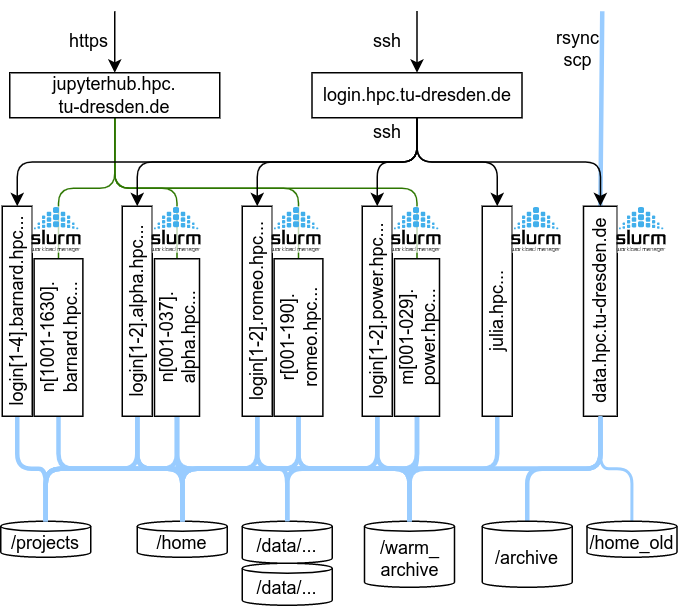
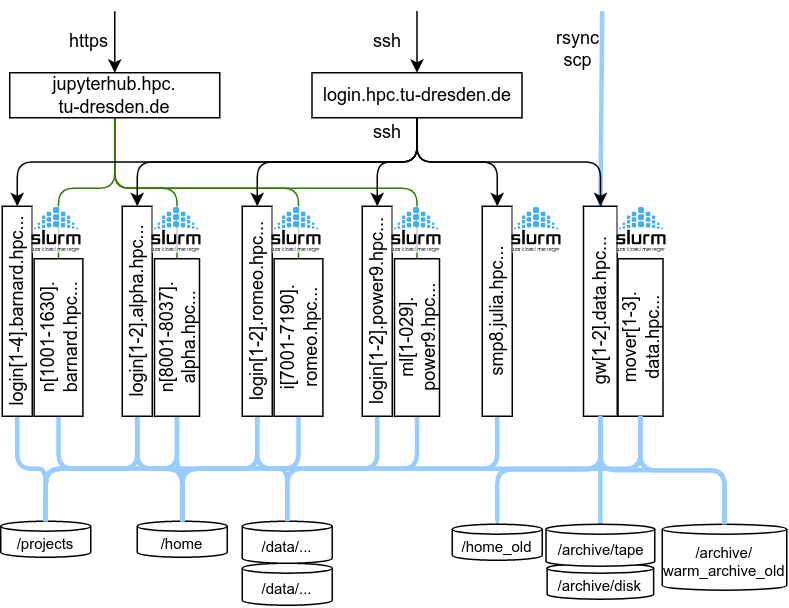
namen

Changed region(s): [[0.0, 0.0297, 1.0, 1.0], [0.0, 0.0297, 0.3407, 0.2079]]

diff --git a/doc.zih.tu-dresden.de/docs/jobs_and_resources/hardware_overview.md b/doc.zih.tu-dresden.de/docs/jobs_and_resources/hardware_overview.md
@@ -12,10 +12,10 @@ From the users' pespective, there are seperate clusters, all of them with their 
 | Name | Description | Year| DNS |
 | --- | --- | --- | --- |
 | **Barnard** | CPU cluster |2023| n[1001-1630].barnard.hpc.tu-dresden.de |
-| **Romeo** | CPU cluster |2020|r[001-192].romeo.hpc.tu-dresden.de |
-| **Alpha Centauri** | GPU cluster |2021|a[001-039].alpha.hpc.tu-dresden.de |
-| **Julia** | single SMP system |2021|julia.hpc.tu-dresden.de |
-| **Power** | IBM Power/GPU system |2018|m[001-032].power.hpc.tu-dresden.de |
+| **Romeo** | CPU cluster |2020|i[8001-8190].romeo.hpc.tu-dresden.de |
+| **Alpha Centauri** | GPU cluster |2021|i[8001-8037].alpha.hpc.tu-dresden.de |
+| **Julia** | single SMP system |2021|smp8.julia.hpc.tu-dresden.de |
+| **Power** | IBM Power/GPU system |2018|ml[1-29].power9.hpc.tu-dresden.de |
 
 They run with their own Slurm batch system. Job submission is possible only from
 their respective login nodes.
@@ -24,12 +24,13 @@ All clusters have access to these shared parallel file systems:
 
 | File system | Usable directory | Type | Capacity | Purpose |
 | --- | --- | --- | --- | --- |
-| `Home` | `/home` | Lustre | 40 TB |
-| `Project` | `/projects` | NFS | 40 TB |
-| `Scratch for large data / streams` | `/data/horse` | Lustre | 20 PB |
-| `Scratch for random access` | `/data/rabbit` | Lustre | 2 PB |
-| `Scratch for random access` | `/data/weasel` | WEKA | 232 TB |
-| `Scratch for random access` | `/data/weasel` | WEKA | 232 TB |
+| Home | `/home` | Lustre | 40 TB |
+| Project | `/projects` | NFS | 40 TB |
+| Scratch for large data / streaming | `/data/horse` | Lustre | 20 PB |
+| Scratch for random access | `/data/rabbit` | Lustre | 2 PB |
+| coming soon | --- | --- | --- | --- |
+| Scratch for random access | `/data/weasel` | WEKA | 232 TB |
+| Scratch for random access | `/data/squirrel` | BeeGFS | xxx TB |
 
 ## Barnard - Intel Sapphire Rapids CPUs
 
@@ -46,7 +47,7 @@ All clusters have access to these shared parallel file systems:
     - 2 x AMD EPYC CPU 7352 (24 cores) @ 2.3 GHz, Multithreading available
     - 1 TB RAM
     - 3.5 TB local memory on NVMe device at `/tmp`
-- Hostnames: `taurusi[8001-8034]`  -> `a[1-37].alpha.hpc.tu-dresden.de`
+- Hostnames: `taurusi[8001-8034]`  -> `i[8001-8037].alpha.hpc.tu-dresden.de`
 - Login nodes: `login[1-2].alpha.hpc.tu-dresden.de`
 - Further information on the usage is documented on the site [Alpha Centauri Nodes](alpha_centauri.md)
 
@@ -56,7 +57,7 @@ All clusters have access to these shared parallel file systems:
     - 2 x AMD EPYC CPU 7702 (64 cores) @ 2.0 GHz, Multithreading available
     - 512 GB RAM
     - 200 GB local memory on SSD at `/tmp`
-- Hostnames: `taurusi[7001-7192]` -> `r[1-190].romeo.hpc.tu-dresden.de`
+- Hostnames: `taurusi[7001-7192]` -> `i[7001-7190].romeo.hpc.tu-dresden.de`
 - Login nodes: `login[1-2].romeo.hpc.tu-dresden.de`
 - Further information on the usage is documented on the site [AMD Rome Nodes](rome_nodes.md)
 
@@ -68,7 +69,7 @@ All clusters have access to these shared parallel file systems:
 - Configured as one single node
 - 48 TB RAM (usable: 47 TB - one TB is used for cache coherence protocols)
 - 370 TB of fast NVME storage available at `/nvme/<projectname>`
-- Hostname: `taurussmp8` -> `julia.hpc.tu-dresden.de`
+- Hostname: `taurussmp8` -> `smp8.julia.hpc.tu-dresden.de`
 - Further information on the usage is documented on the site [HPE Superdome Flex](sd_flex.md)
 
 ## IBM Power9 Nodes for Machine Learning
@@ -80,5 +81,5 @@ For machine learning, we have IBM AC922 nodes installed with this configuration:
     - 256 GB RAM DDR4 2666 MHz
     - 6 x NVIDIA VOLTA V100 with 32 GB HBM2
     - NVLINK bandwidth 150 GB/s between GPUs and host
-- Hostnames: `taurusml[1-32]` -> `p[1-29].ml.hpc.tu-dresden.de`
-- Login nodes: `login[1-2].ml.hpc.tu-dresden.de``
+- Hostnames: `taurusml[1-32]` -> `ml[1-29].power9.hpc.tu-dresden.de`
+- Login nodes: `login[1-2].power9.hpc.tu-dresden.de``
